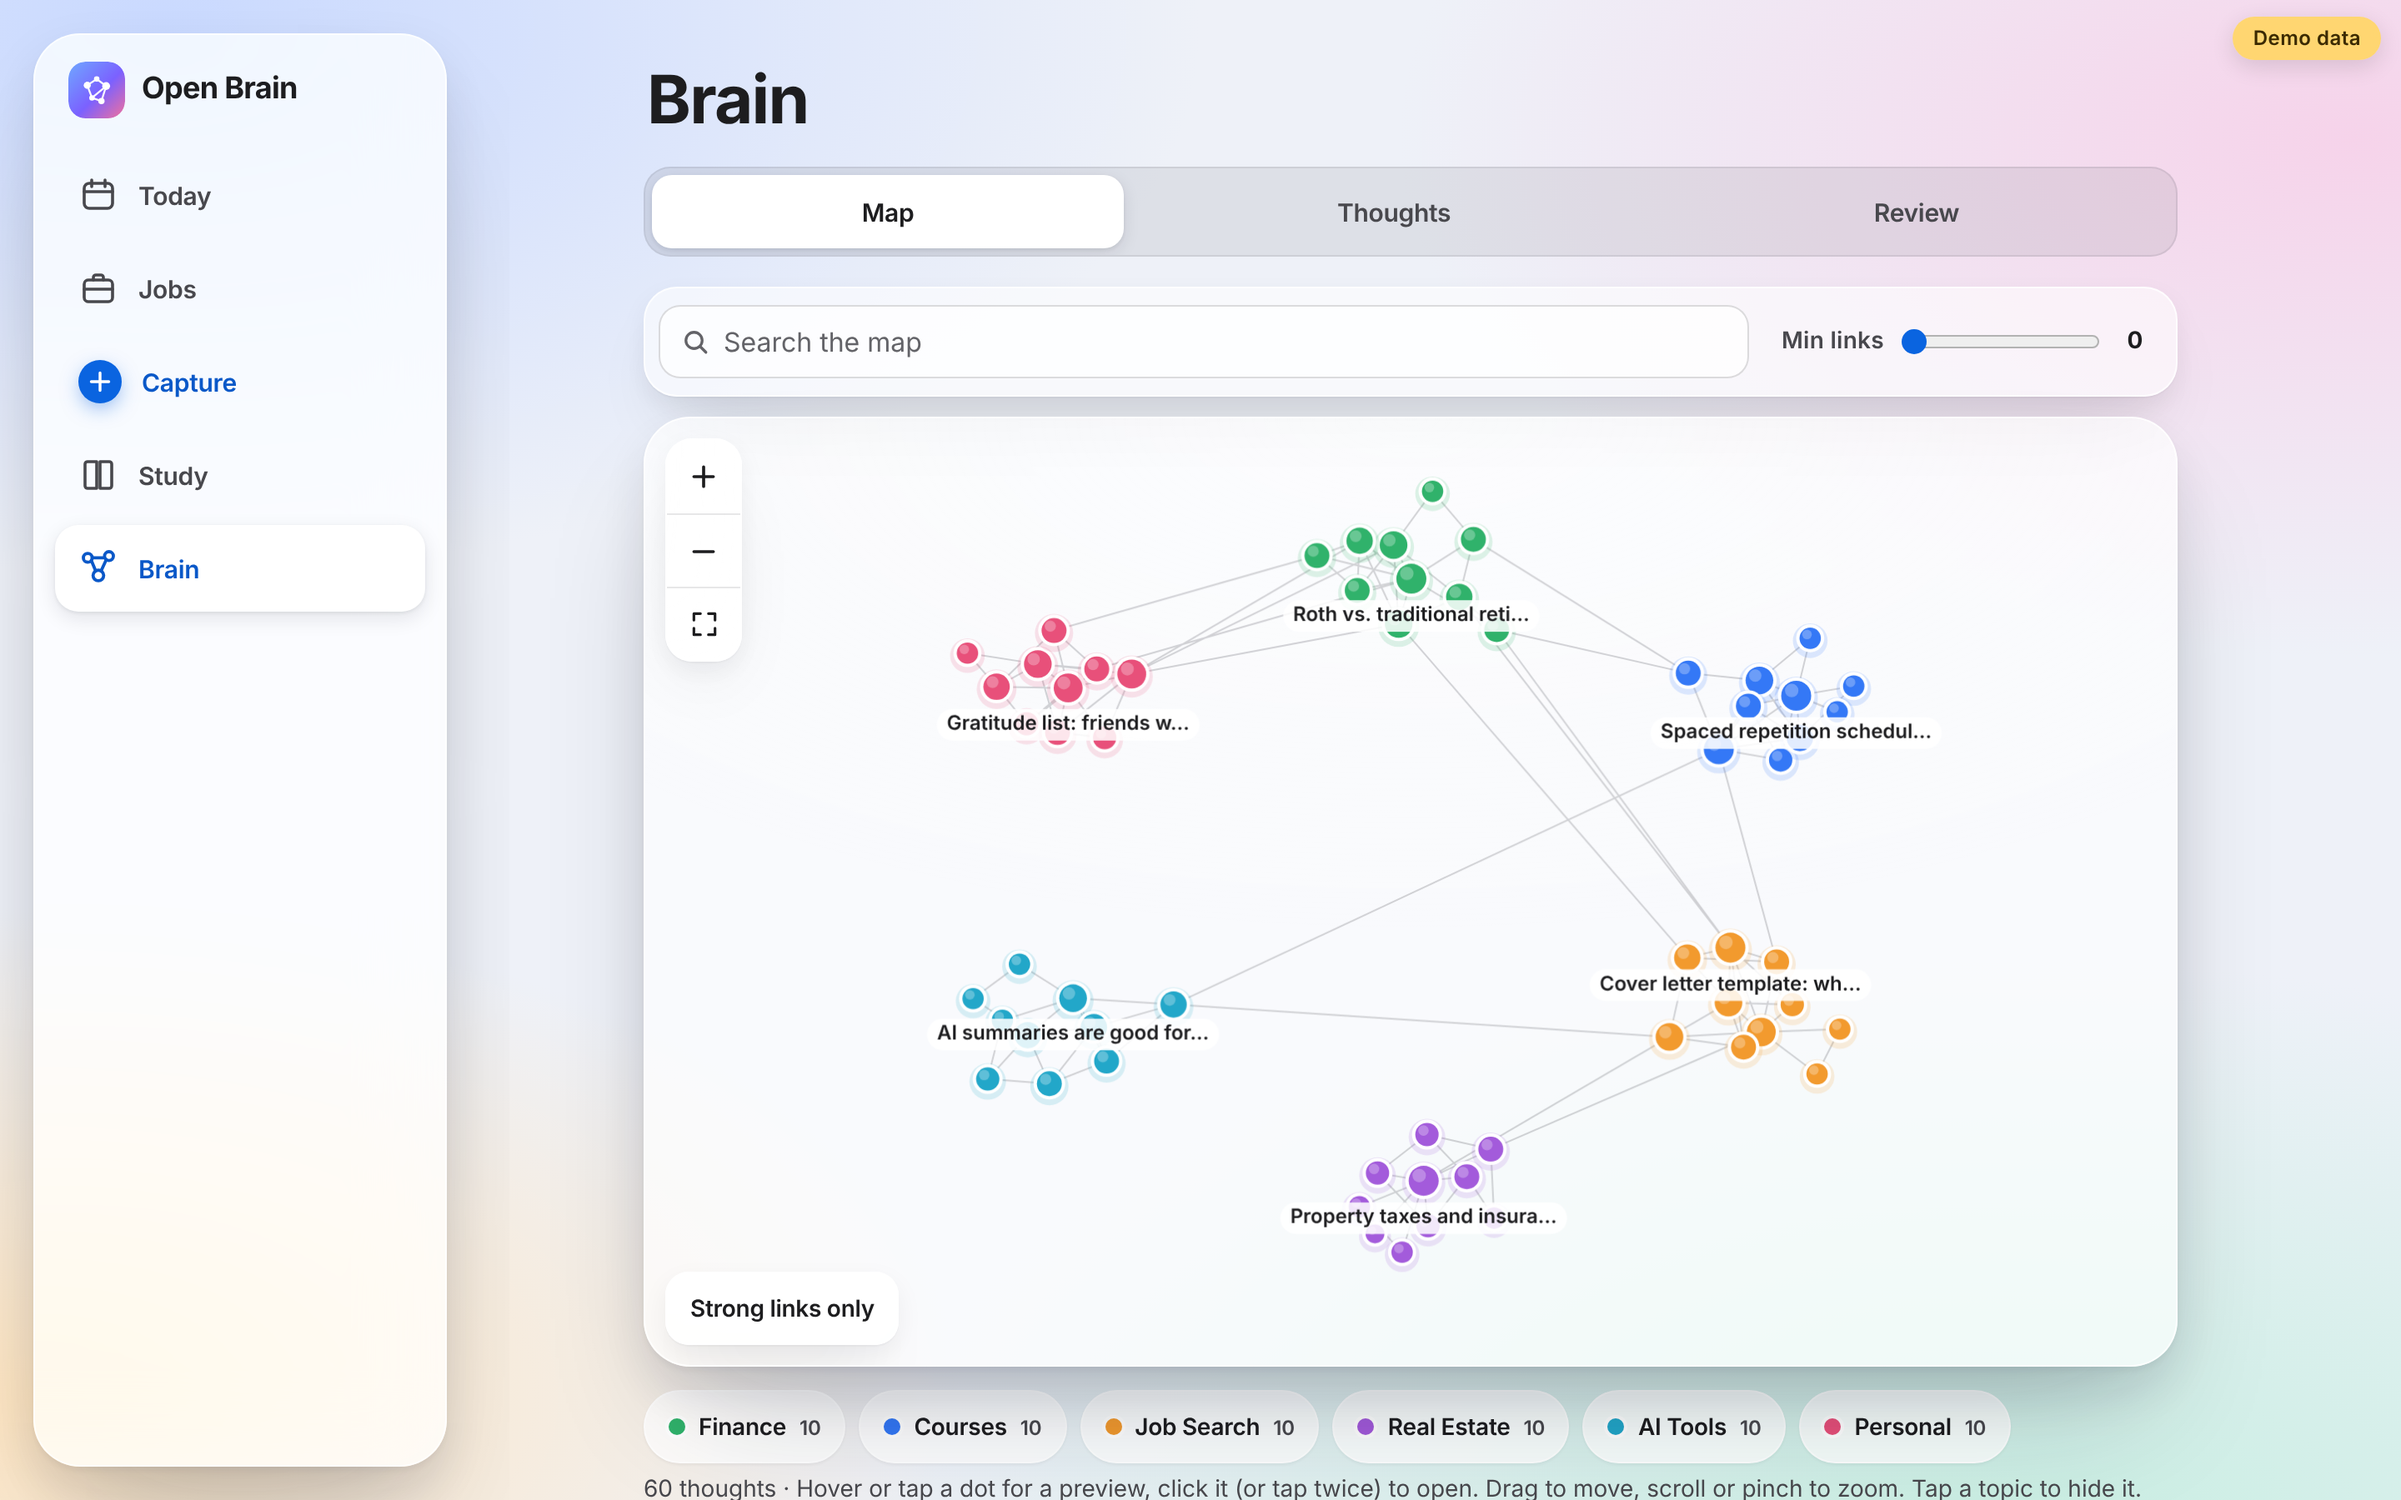
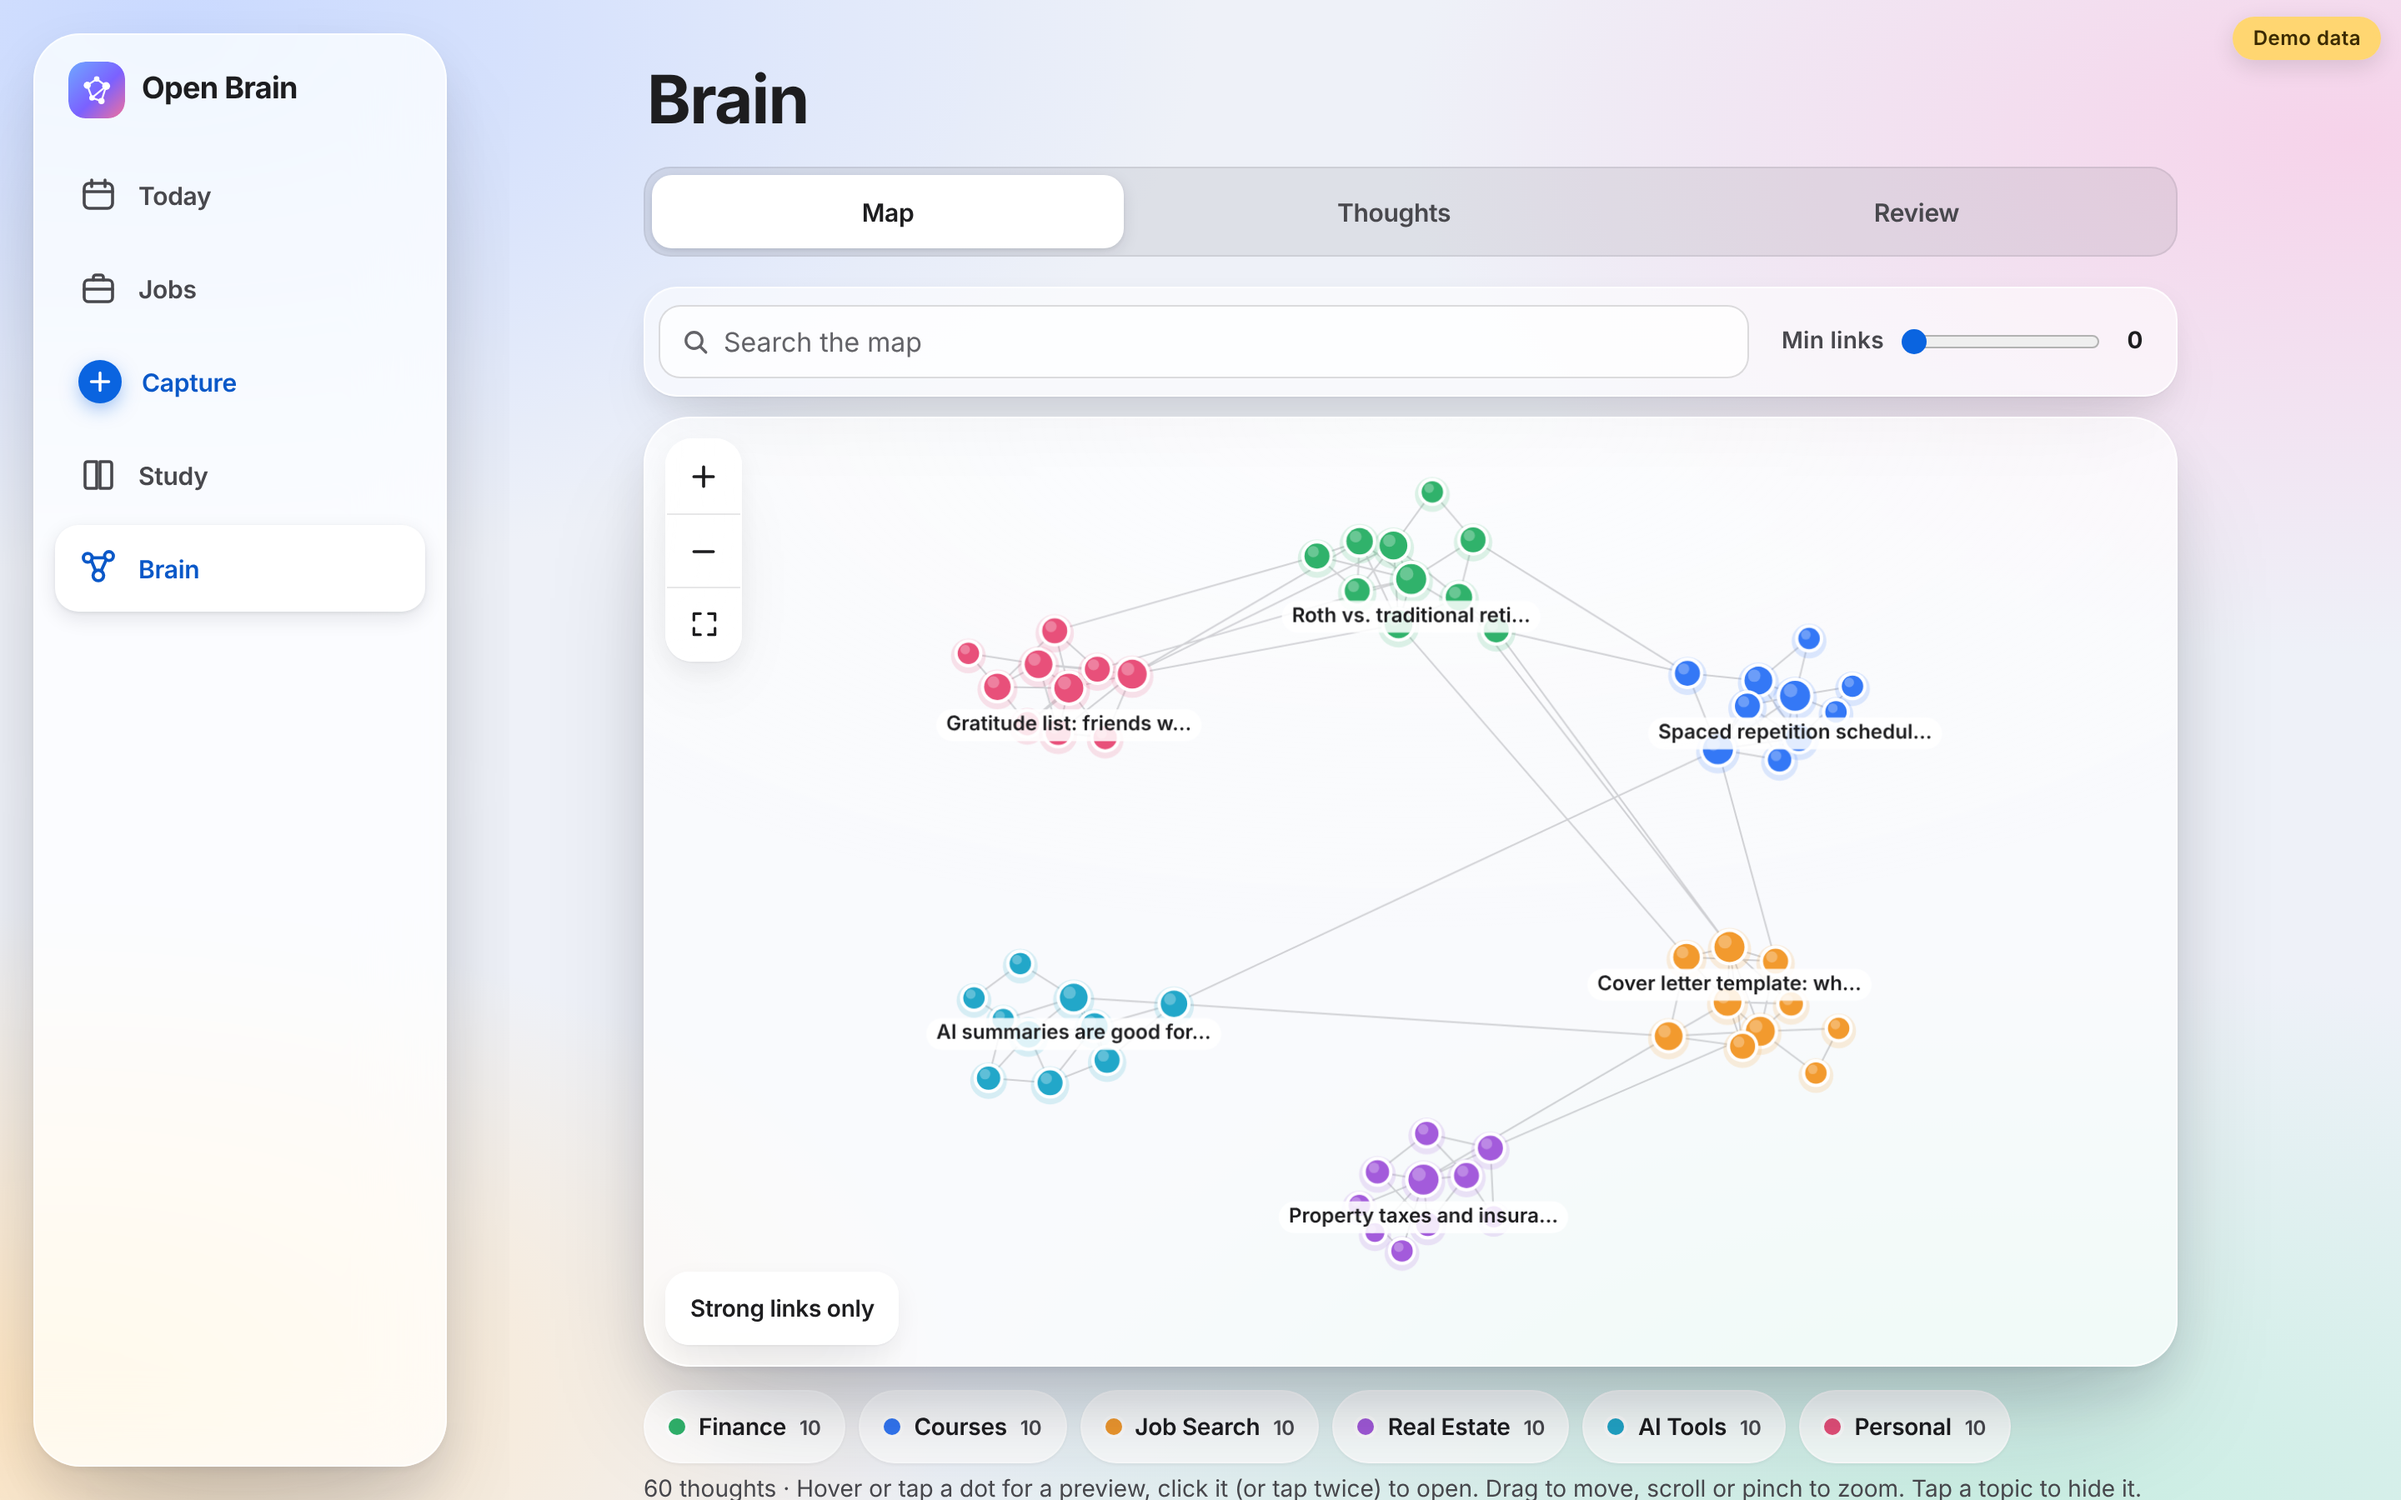
Design v4: DESIGN-NOTES.md, final screenshots, faster browser test
Claude-Session: https://claude.ai/code/session_01Gr9fbVsXNcFcwRCRP1CZtp

diff --git a/DESIGN-NOTES.md b/DESIGN-NOTES.md
@@ -1,0 +1,78 @@
+# Design v4: "Glass"
+
+A calm redesign of the whole web app: frosted-glass panels floating over a soft colour
+gradient, large rounded corners, layered soft shadows, the computer's own system font, and
+springy (slightly bouncy) movement between tabs and panels. It follows your device's light
+or dark setting. This branch (`design-v4`) runs on **invented demo data only**.
+
+Screenshots: `design-review/` (re-make them with `node design-review/take-screenshots.mjs`).
+
+## What changed
+
+| File | Change |
+|---|---|
+| `index.html` | New stylesheet (glass panels, gradient, system fonts, light + dark, spring transitions, sidebar on wide screens, floating tab bar on phones). New sign-in look. Today becomes two columns on a computer. New map controls. Web fonts removed. One `<script src="demo-mode.js">` line added. |
+| `graph.js` | Rewritten map (see below). Same data (`brain_graph()`), same "read the full thought" sheet. |
+| `review.css`, `ask-edit-check.css` | Same rules, recoloured for glass and dark mode. |
+| `shell.js` | Toast uses the glass colours. |
+| `planner.js`, `jobs.js` | Fold-out titles use a CSS class instead of grey inline colour. `planner.js` shows "Notifications: off in demo mode" when `demo-mode.js` is loaded. |
+| `demo-mode.js` | **New.** The fake back end (below). |
+| `tests/design-v4/` | **New.** Browser test of the whole app on demo data + the small local server it uses. |
+| `design-review/` | **New.** Screenshots and the script that takes them. |
+
+`gaps.js`, `library.js`, `review.js`, `ask.js`, `edit-thought.js` and `door-flag.js` did not need code
+changes: their screens are restyled through the shared CSS classes. Nothing in `supabase/`,
+`migration.sql`, `.github/`, `pc-setup/`, `config.js`, `brain-calendar.html` or `privacy.html` changed.
+
+## The map (Brain → Map)
+
+- One soft round dot per thought; **colour = topic** (legend under the map), **size = number of connections**.
+- **Hover** a dot (or **tap** it on a phone) for a frosted preview card: first words, topic, connection count.
+  Click it (or tap it again, or press "Open note") to read the whole thought and jump to linked ones.
+- **Zoom and move**: mouse wheel / trackpad, drag, two-finger pinch, the + / − buttons, the keyboard (+, −, arrows).
+  The corner button eases back to the whole map and clears search and filters.
+- **Search** box: matching dots get a blue ring, the rest fade, and the map glides to the matches.
+- **Filters**: tap a topic in the legend to hide or show it; the "Min links" slider hides loosely connected dots.
+  "Strong links only" hides weaker lines.
+- The layout is worked out once when the data arrives, and the map only redraws while something moves,
+  so it stays smooth with hundreds of dots (the test checks 300: one frame takes a few milliseconds).
+- With "reduce motion" switched on in the device settings, zooms and panels jump instead of gliding.
+
+## Demo mode (`demo-mode.js`)
+
+Loaded in `index.html` just before the Supabase client is created. It:
+
+- replaces `supabase.createClient()` with an in-memory fake: `.from()` query chains, `.rpc()` (including
+  `brain_graph`), `.auth.*` and `.functions.invoke` all answer from invented data;
+- answers any `fetch` to a `*.supabase.co` address itself, so nothing is ever sent there;
+- opens signed in as a made-up user ("Riley"); add `?login=1` to the address to see the sign-in screen
+  (any email and password then "sign in");
+- keeps every write (new thought, edit, approve, tick a task…) and the app's own small caches in memory
+  only: a reload starts fresh;
+- turns off push-notification subscribe and service-worker registration;
+- shows a small yellow **"Demo data"** badge;
+- `?nodes=300` grows the map to 300 notes for a speed check.
+
+All demo content is invented: about 60 notes in 6 topics (Finance, Courses, Job Search, Real Estate,
+AI Tools, Personal) with links between them, 6 library entries (one deliberately trips the door-check
+warning), 3 brain pages, 2 proposals, planner items, calendar events and 7 made-up job postings.
+
+### Going back to real data
+
+Delete **`demo-mode.js`** and its one line in `index.html`:
+
+```html
+<script src="demo-mode.js"></script>
+```
+
+That is all. The rest of the redesign works with the real database unchanged. (The `tests/design-v4`
+test and the screenshot script need demo mode, so delete or skip them too if you remove it.)
+
+## Checked, and not checked
+
+- `npm run check` passes, including the new browser test: no request reaches supabase.co, every tab
+  opens with no console errors, map hover / zoom / search / filters work, nothing scrolls sideways at
+  375px wide, and the tab bar and map buttons are at least 44px.
+- **Real login and real data were not tested on this branch.** Everything ran on demo data in a
+  headless browser. Voice capture, PDF reading (it loads pdf.js from a CDN) and push notifications
+  could not be exercised there.
